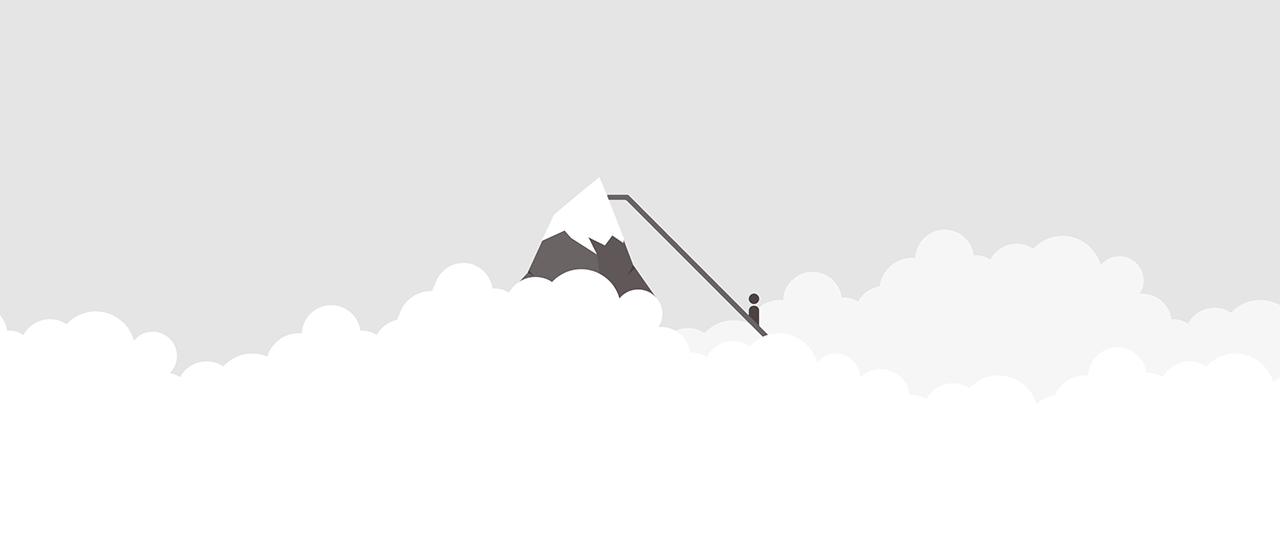
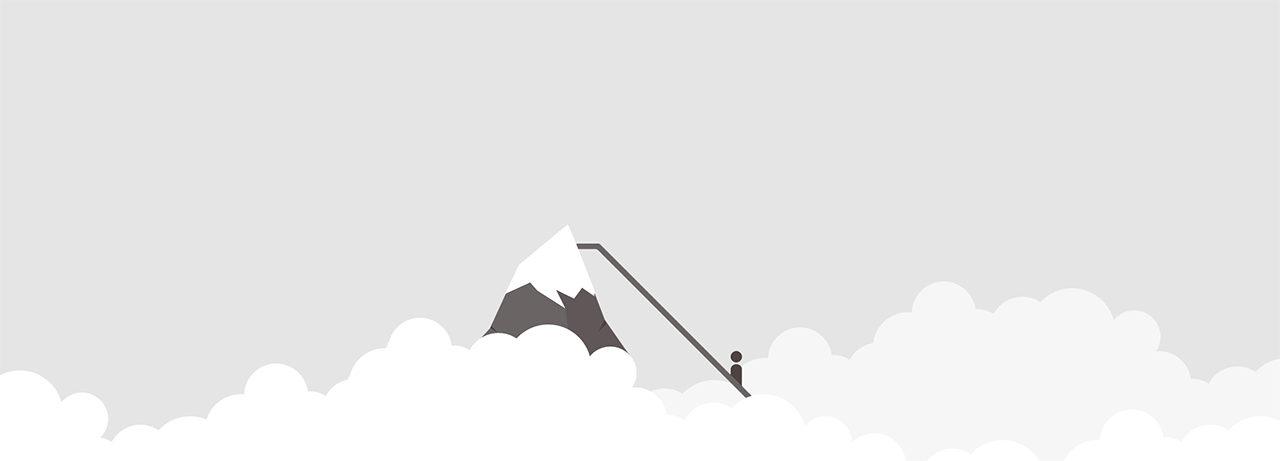
testimonials pic recrop

Changed region(s): [[0.0, 0.3341, 0.7188, 0.9718], [0.8438, 0.6377, 1.0, 0.82], [0.5312, 0.4555, 0.5625, 0.5163]]

diff --git a/112_readiness/images/_absolute-url.md b/112_readiness/images/_absolute-url.md
@@ -38,3 +38,6 @@ https://raw.githubusercontent.com/firepress-org/themes-content/master/112_readin
 
 ### map2.jpg
 https://raw.githubusercontent.com/firepress-org/themes-content/master/112_readiness/images/map2.jpg
+
+### testimonials.png
+https://raw.githubusercontent.com/firepress-org/themes-content/master/112_readiness/images/testimonials.png
